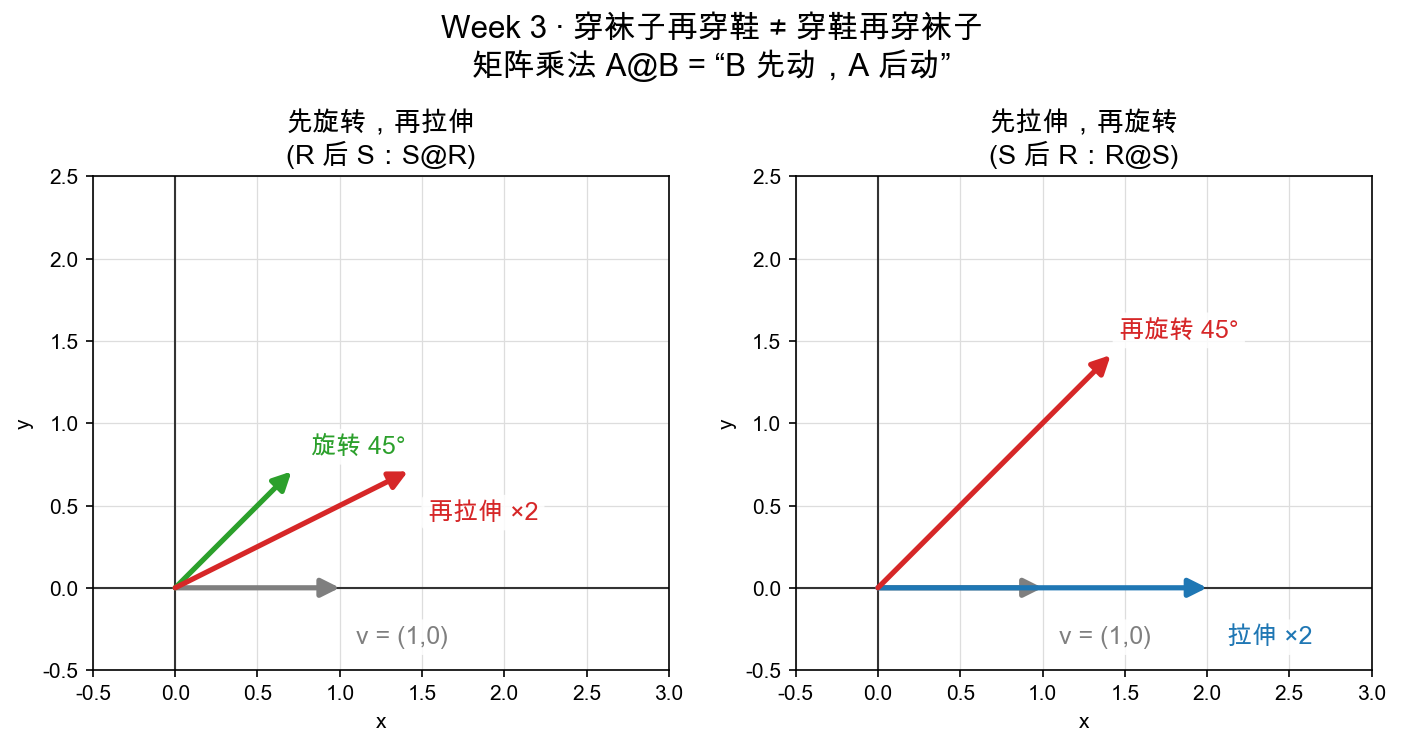
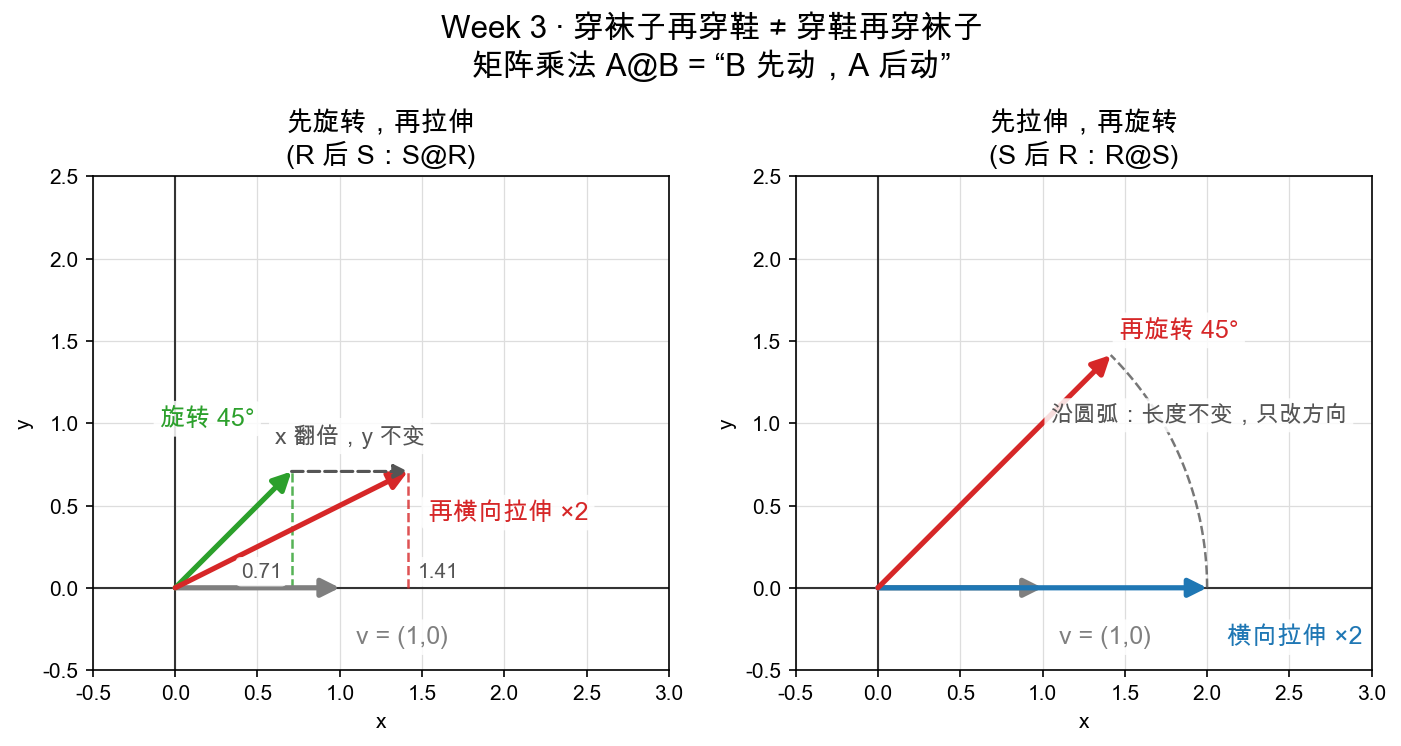
更新 W3D3 图示：新增虚线箭头和辅助说明文字，清晰展示矩阵变换的顺序影响，更新学习指南以包含新图示，强调变换顺序对结果的影响。

diff --git a/figures/gen_w3d3_compose.py b/figures/gen_w3d3_compose.py
@@ -2,13 +2,32 @@
 import sys, pathlib
 
 sys.path.insert(0, str(pathlib.Path(__file__).resolve().parents[1]))
+import numpy as np
 import matplotlib.pyplot as plt
 
-from reference.mat import matmul, matvec, rotation_matrix, scale_matrix
+from reference.mat import matvec, rotation_matrix, scale_matrix
 from figures._common import C_BLUE, C_GREEN, C_GRAY, C_RED, axes, save, vec
 
 R = rotation_matrix(45)
 S = scale_matrix(2, 1)
+
+ANNOT = "#555555"  # 辅助线/辅助文字的深灰
+
+
+def dashed_arrow(ax, p, q):
+    """从 p 到 q 的细虚线箭头（表示"被拽过去"的辅助动作）。"""
+    ax.annotate("", xy=q, xytext=p,
+                arrowprops=dict(arrowstyle="-|>", color=ANNOT, lw=1.5,
+                                linestyle="--", shrinkA=0, shrinkB=0,
+                                mutation_scale=14))
+
+
+def note(ax, x, y, text, ha="center", va="bottom", fontsize=11):
+    """带白色衬底的辅助说明文字。"""
+    ax.text(x, y, text, color=ANNOT, fontsize=fontsize, ha=ha, va=va,
+            bbox=dict(boxstyle="round,pad=0.25", fc="white", ec="none", alpha=0.85),
+            zorder=6)
+
 
 fig, (ax1, ax2) = plt.subplots(1, 2, figsize=(11, 5))
 for ax in (ax1, ax2):
@@ -21,9 +40,16 @@ fin = matvec(S, mid)
 vec(ax1, (0, 0), v, color=C_GRAY, label="v = (1,0)",
     label_at_tip=True, label_offset=(0.1, -0.3))
 vec(ax1, (0, 0), mid, color=C_GREEN, label="旋转 45°",
-    label_at_tip=True, label_offset=(0.12, 0.15))
-vec(ax1, (0, 0), fin, color=C_RED, label="再拉伸 ×2",
+    label_at_tip=True, label_offset=(-0.8, 0.32))
+vec(ax1, (0, 0), fin, color=C_RED, label="再横向拉伸 ×2",
     label_at_tip=True, label_offset=(0.12, -0.25))
+# 横向拉伸的"证据"：y 不变，只把 x 轴上的影子翻倍
+ax1.plot([mid[0], mid[0]], [0, mid[1]], color=C_GREEN, lw=1.2, ls="--", alpha=0.8)
+ax1.plot([fin[0], fin[0]], [0, fin[1]], color=C_RED, lw=1.2, ls="--", alpha=0.8)
+dashed_arrow(ax1, mid, fin)
+note(ax1, (mid[0] + fin[0]) / 2, mid[1] + 0.14, "x 翻倍，y 不变")
+note(ax1, mid[0] - 0.06, 0.04, f"{mid[0]:.2f}", ha="right", fontsize=10)
+note(ax1, fin[0] + 0.06, 0.04, f"{fin[0]:.2f}", ha="left", fontsize=10)
 ax1.set_title("先旋转，再拉伸\n(R 后 S：S@R)", fontsize=13)
 
 # 右：先横向拉伸 2 倍，再旋转 45°
@@ -31,10 +57,15 @@ mid2 = matvec(S, v)
 fin2 = matvec(R, mid2)
 vec(ax2, (0, 0), v, color=C_GRAY, label="v = (1,0)",
     label_at_tip=True, label_offset=(0.1, -0.3))
-vec(ax2, (0, 0), mid2, color=C_BLUE, label="拉伸 ×2",
+vec(ax2, (0, 0), mid2, color=C_BLUE, label="横向拉伸 ×2",
     label_at_tip=True, label_offset=(0.12, -0.3))
 vec(ax2, (0, 0), fin2, color=C_RED, label="再旋转 45°",
     label_at_tip=True, label_offset=(0.05, 0.15))
+# 旋转的"证据"：沿圆弧走，长度不变
+theta = np.linspace(0, np.pi / 4, 60)
+r = float(np.hypot(*mid2))
+ax2.plot(r * np.cos(theta), r * np.sin(theta), color=ANNOT, lw=1.2, ls="--", alpha=0.8)
+note(ax2, 1.95, 0.98, "沿圆弧：长度不变，只改方向", ha="center")
 ax2.set_title("先拉伸，再旋转\n(S 后 R：R@S)", fontsize=13)
 
 fig.suptitle("Week 3 · 穿袜子再穿鞋 ≠ 穿鞋再穿袜子\n矩阵乘法 A@B = “B 先动，A 后动”", fontsize=15, y=0.99)
